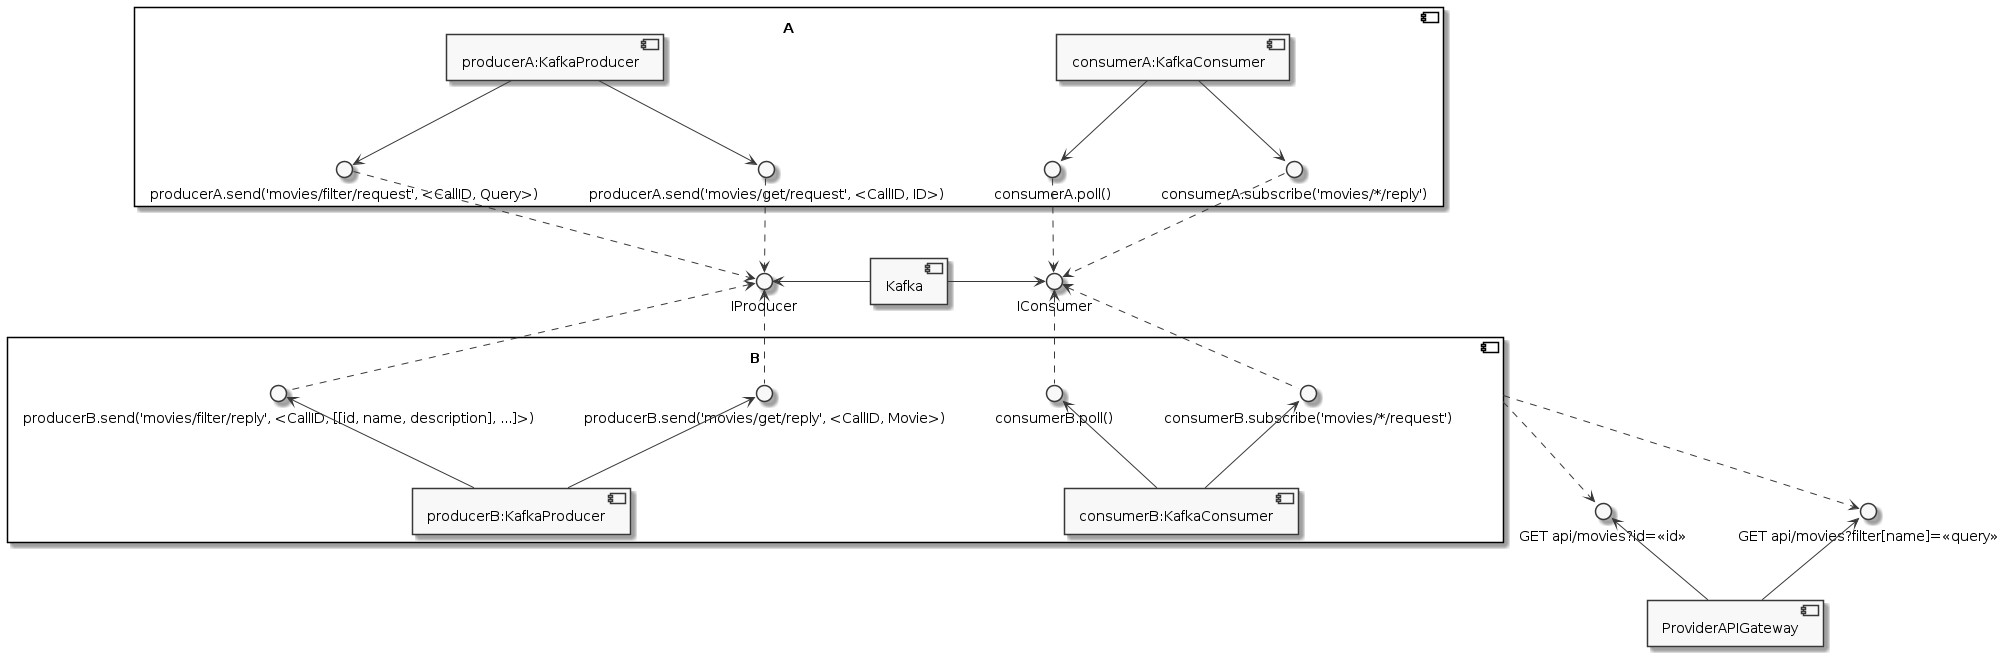
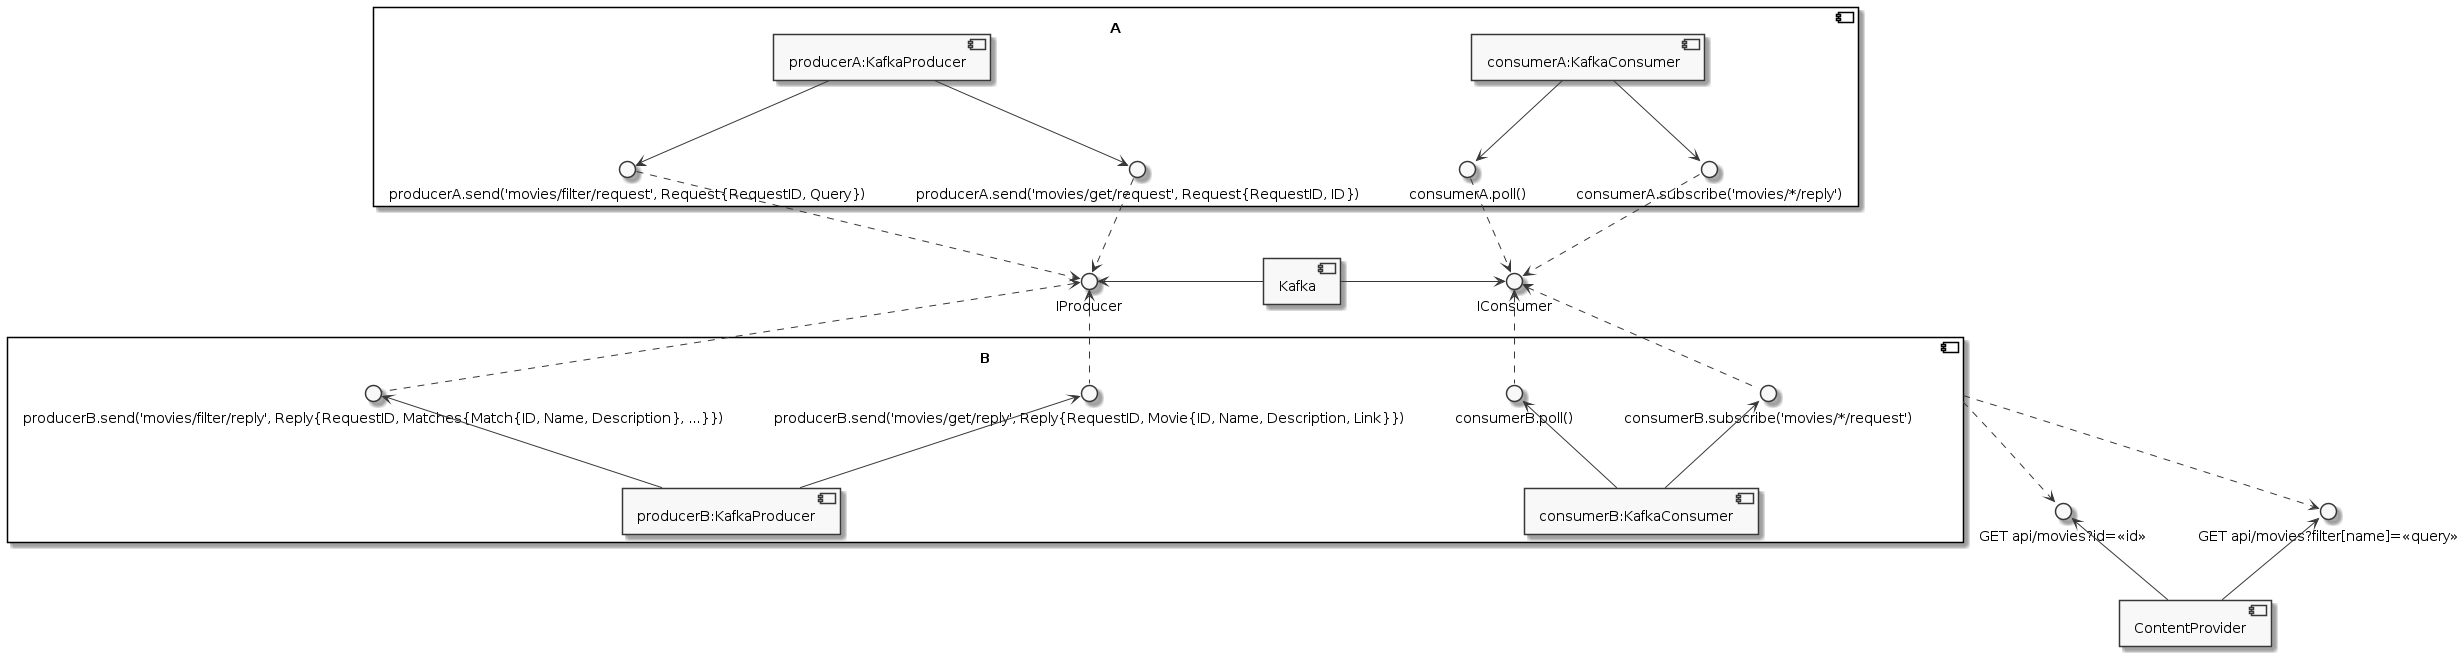
sequence diagram filter movies

diff --git a/readme.md b/readme.md
@@ -32,11 +32,13 @@
   "data": [
     {
       "id": 1,
-      "name": "query1"
+      "name": "query1",
+      "description": "Best Movie"
     },
     {
       "id": 14,
-      "name": "query2"
+      "name": "query2",
+      "description": "Good Movie"
     }
   ]
 }
@@ -53,6 +55,7 @@
       "type": "movies",
       "id": "id",
       "name": "MovieName",
+      "description": "Best Movie",
       "link": "http://provider.com/store/movies/id"
     },
   ]
